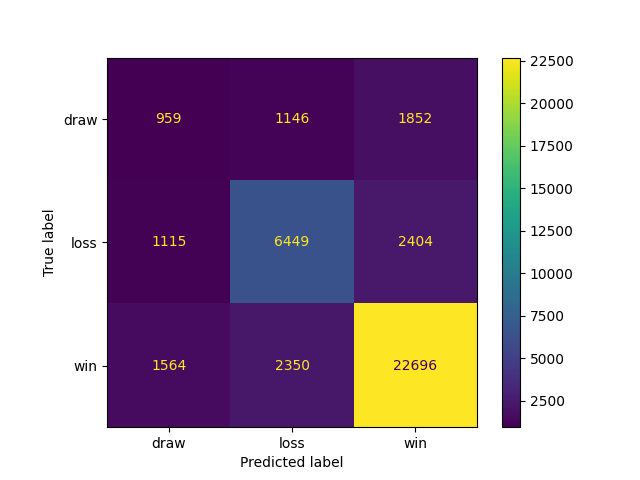
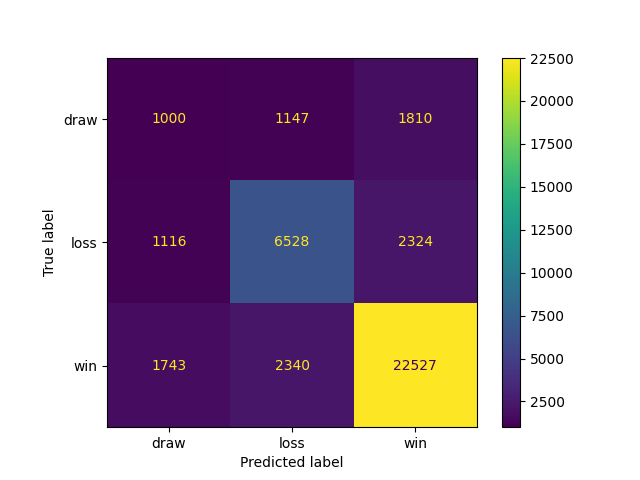
docs: update new classification report + confustion matrix

diff --git a/src/main.py b/src/main.py
@@ -29,7 +29,7 @@ def process(
 	X_train = list(map(lambda state: state.state, training_set_states))
 	Y_train = list(map(lambda state: state.result, training_set_states))
 
-	decision_tree = tree.DecisionTreeClassifier(max_depth=max_depth).fit(X_train, Y_train)
+	decision_tree = tree.DecisionTreeClassifier(criterion="entropy",max_depth=max_depth).fit(X_train, Y_train)
 	print('max_depth', decision_tree.tree_.max_depth)
 
 
@@ -48,8 +48,9 @@ def process(
 
 	if plot_confusion_matrix:
 		print('Start plotting confusion matrix phase...')
-		view =  metrics.ConfusionMatrixDisplay.from_predictions(Y_test, Y_test_pred, labels=decision_tree.classes_)
+		metrics.ConfusionMatrixDisplay.from_predictions(Y_test, Y_test_pred, labels=decision_tree.classes_)
 		plt.savefig('output/' + dataset["filename_confusion_matrix"] + '.png')
+		print(metrics.classification_report(Y_test, Y_test_pred, labels=decision_tree.classes_))
 
 
 
@@ -71,13 +72,13 @@ def process(
 
 
 for dataset in DATASET_BASE:
-	process(dataset=dataset, plot_confusion_matrix=True, plot_decision_tree=True)
+	process(dataset=dataset, plot_confusion_matrix=True, plot_decision_tree=False)
 	print('\n')
 
 
-accuracy_list = []
-for i in range(1, 8):
-	(accuracy_score) = process(max_depth=i == 1 and None or i, plot_decision_tree=True)
-	accuracy_list.append(accuracy_score)
-	print('\n')
+# accuracy_list = []
+# for i in range(1, 8):
+# 	(accuracy_score) = process(max_depth=i == 1 and None or i, plot_decision_tree=True)
+# 	accuracy_list.append(accuracy_score)
+# 	print('\n')
 

diff --git a/README.md b/README.md
@@ -122,7 +122,21 @@ max_depth=36 (auto)
 <img src="https://user-images.githubusercontent.com/45004786/145932067-fc4f618a-267d-49db-bc76-bd402b94ad1a.png" width="1000%"/>
 Confusion matrix:
 
-<img src="https://user-images.githubusercontent.com/45004786/145932664-8e97a1dd-8094-4877-93e0-9291f6db0e07.png" width="50%"/><br/>
+<img src="https://user-images.githubusercontent.com/45004786/146012084-f82baeaa-5e24-4d34-84e5-9930475f937a.png" height="300px"/><br/>
+Classification report:
+
+```
+              precision    recall  f1-score   support
+
+        draw       0.26      0.24      0.25      3957
+        loss       0.65      0.64      0.65      9968
+         win       0.84      0.85      0.85     26610
+
+    accuracy                           0.74     40535
+   macro avg       0.58      0.58      0.58     40535
+weighted avg       0.74      0.74      0.74     40535
+```
+
 Accuracy: 0.7426668311335882
 
 ---
@@ -133,7 +147,21 @@ Decision tree of 60/40 set, max_depth=33 (auto) (click to image for more detail)
 <img src="https://user-images.githubusercontent.com/45004786/145932986-aa5d9674-c1e8-4953-bda3-c8db4c0300bb.png" width="100%"/>
 Confusion matrix:
 
-<img src="https://user-images.githubusercontent.com/45004786/145933238-ec1b3c33-d001-43c2-8720-0b34381cbf49.png" width="50%"/><br/>
+<img src="https://user-images.githubusercontent.com/45004786/146012079-5716cd53-3fa8-4399-9d4b-f125e347c969.png" height="300px"/><br/>
+Classification report:
+
+```
+              precision    recall  f1-score   support
+
+        draw       0.28      0.27      0.28      2637
+        loss       0.67      0.67      0.67      6610
+         win       0.85      0.86      0.85     17776
+
+    accuracy                           0.75     27023
+   macro avg       0.60      0.60      0.60     27023
+weighted avg       0.75      0.75      0.75     27023
+```
+
 Accuracy: 0.7557266032638863
 
 ---
@@ -146,9 +174,22 @@ max_depth=35 (auto)
 <img src="https://user-images.githubusercontent.com/45004786/145933144-d6cbcc8b-0e2d-425f-a6e8-3117e734aacf.png" width="100%"/>
 Confusion matrix:
 
-<img src="https://user-images.githubusercontent.com/45004786/145933235-a252a695-20ef-4f06-9e37-2a3396044fd7.png" width="50%"/><br/>
+<img src="https://user-images.githubusercontent.com/45004786/146012073-a07df503-4ce7-45e1-b7d0-e55edd3b6823.png" height="300px"/><br/>
+Classification report:
 
-Accuracy: 0.7674659561870929
+```
+              precision    recall  f1-score   support
+
+        draw       0.31      0.29      0.30      1293
+        loss       0.69      0.69      0.69      3306
+         win       0.86      0.87      0.87      8913
+
+    accuracy                           0.77     13512
+   macro avg       0.62      0.62      0.62     13512
+weighted avg       0.77      0.77      0.77     13512
+```
+
+Accuracy: 0.7706483126110124
 
 ---
 
@@ -160,9 +201,22 @@ max_depth=38 (auto)
 <img src="https://user-images.githubusercontent.com/45004786/145933123-6db4dfc9-06c5-4418-99a3-c61464c9f3d7.png" width="100%"/>
 Confusion matrix:
 
-<img src="https://user-images.githubusercontent.com/45004786/145933230-1aecb342-3953-4e0b-ac80-5e107f180b07.png" width="50%"/><br/>
+<img src="https://user-images.githubusercontent.com/45004786/146012061-892a9c33-d347-4450-b99d-20dbdea93c87.png" height="300px"/><br/>
+Classification report:
 
-Accuracy: 0.7686500888099467
+```
+              precision    recall  f1-score   support
+
+        draw       0.32      0.30      0.31       634
+        loss       0.70      0.69      0.70      1682
+         win       0.86      0.87      0.86      4440
+
+    accuracy                           0.77      6756
+   macro avg       0.62      0.62      0.62      6756
+weighted avg       0.77      0.77      0.77      6756
+```
+
+Accuracy: 0.7711663706335109
 
 ---
 
@@ -199,7 +253,7 @@ max_depth=7 (click to image for more detail)
 
 ---
 
-## Self grading
+## Summary
 
 | No    | Specifications                             | Scores (%) | Complete (%) |
 | ----- | ------------------------------------------ | ---------- | ------------ |
